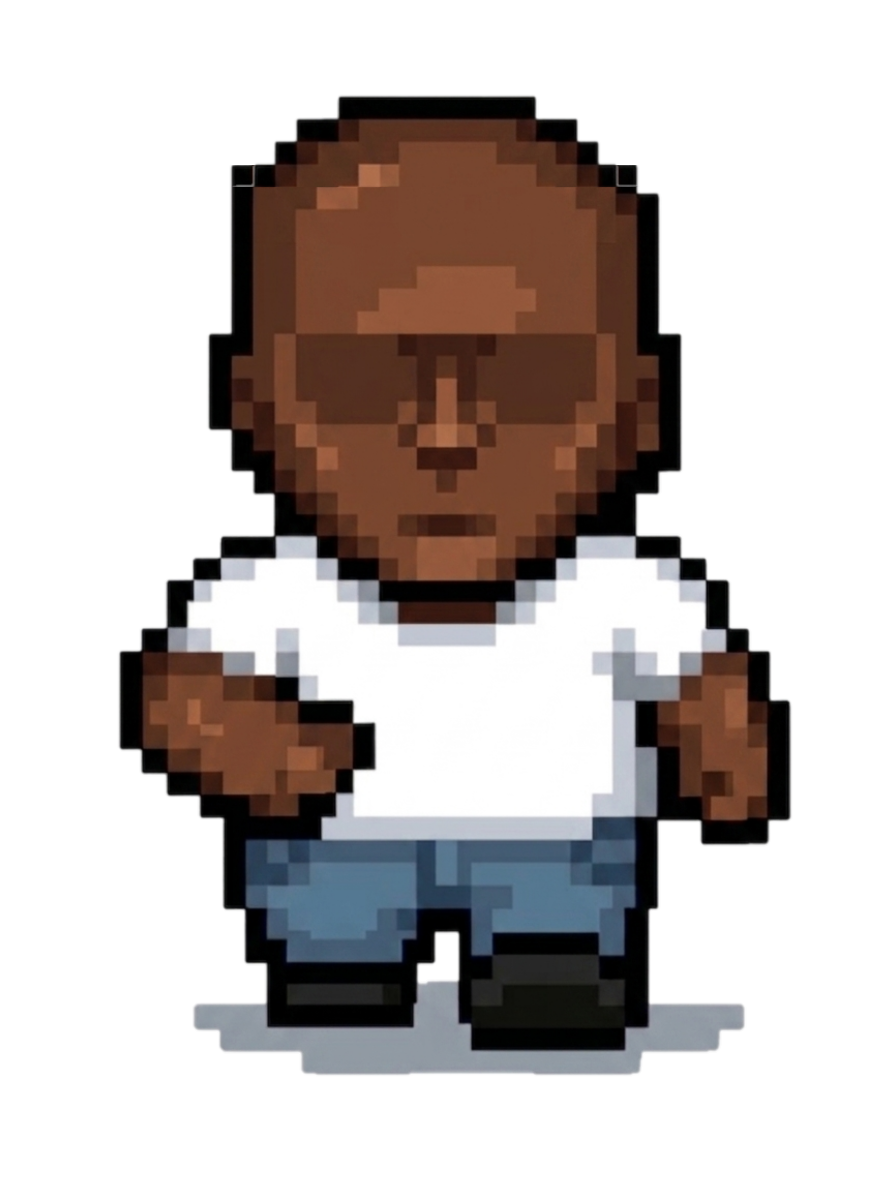
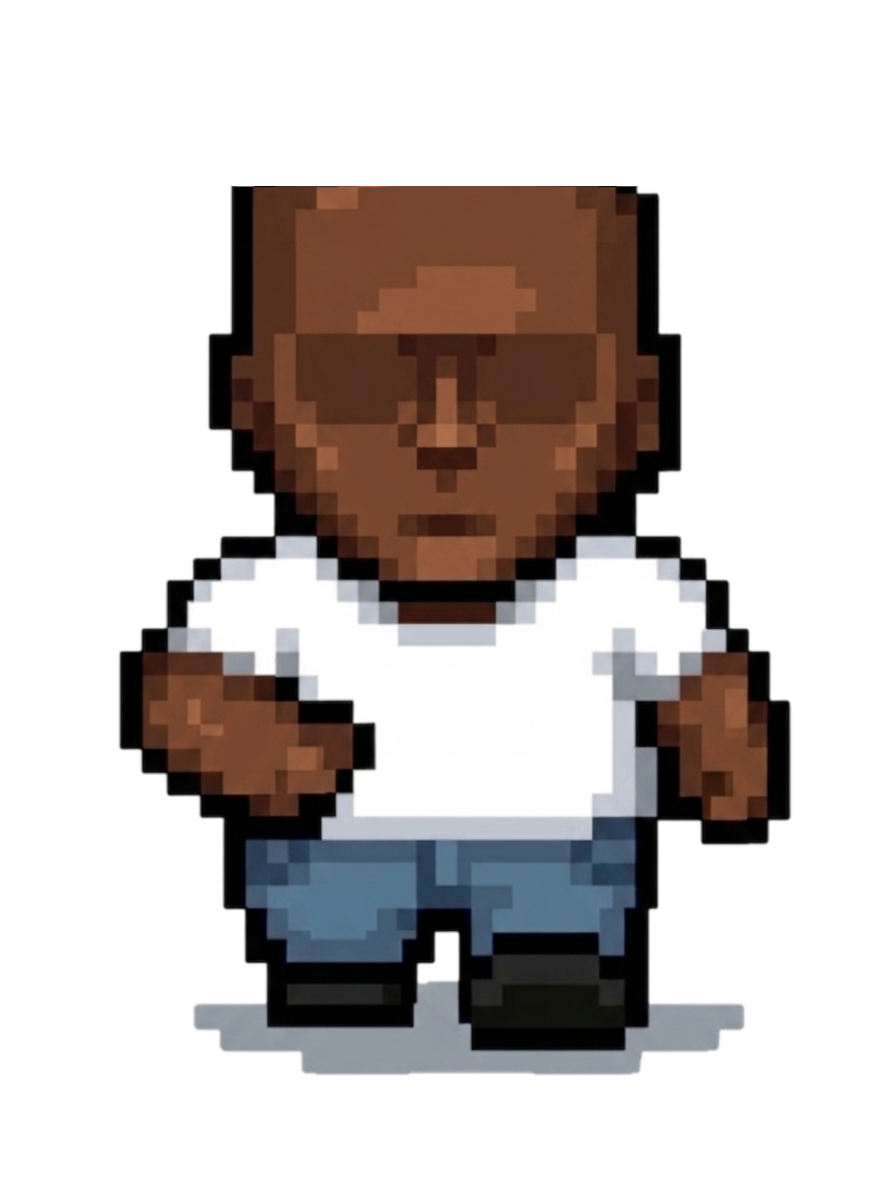
fix

Changed region(s): [[0.25, 0.0619, 0.7188, 0.1548]]

diff --git a/script.js b/script.js
@@ -161,6 +161,14 @@ function renderCharacterTimelineOptions() {
   });
 }
 
+const CHARACTER_BUILDER_TABS = [
+  { id: 'body', label: 'Peau', category: 'bodies', field: 'body' },
+  { id: 'hair', label: 'Cheveux', category: 'hair', field: 'hair' },
+  { id: 'eyes', label: 'Yeux', category: 'eyes', field: 'eyes' },
+  { id: 'beard', label: 'Barbe', category: 'beards', field: 'beard' }
+];
+let activeCharacterBuilderTab = 'body';
+
 function makeCharacterOptionButton(item, field) {
   const appearance = getPendingCharacterAppearance();
   const button = document.createElement('button');
@@ -168,13 +176,22 @@ function makeCharacterOptionButton(item, field) {
   button.className = 'character-choice-btn' + (appearance[field] === item.id ? ' active' : '');
   button.title = item.label || item.id;
   if (item.src) {
+    const preview = document.createElement('span');
+    preview.className = 'character-choice-preview';
     const img = document.createElement('img');
     img.src = item.src;
     img.alt = '';
     img.onerror = function () { this.style.display = 'none'; };
-    button.appendChild(img);
+    preview.appendChild(img);
+    button.appendChild(preview);
+  } else {
+    const empty = document.createElement('span');
+    empty.className = 'character-choice-preview character-choice-none';
+    empty.textContent = '-';
+    button.appendChild(empty);
   }
   const label = document.createElement('span');
+  label.className = 'character-choice-label';
   label.textContent = item.label || item.id;
   button.appendChild(label);
   button.addEventListener('click', () => {
@@ -184,34 +201,60 @@ function makeCharacterOptionButton(item, field) {
   return button;
 }
 
-function renderCharacterOptionGroup(parent, title, category, field) {
+function getAvailableCharacterTabs() {
   const config = getCharacterBuilderConfig(pendingCharacterTimelineId);
-  const options = (config && config[category]) || [];
-  if (!options.length) return;
+  return CHARACTER_BUILDER_TABS.filter(tab => ((config && config[tab.category]) || []).length);
+}
+
+function renderCharacterBuilderSubtabs() {
+  const wrap = document.getElementById('character-builder-subtabs');
+  if (!wrap) return;
+  const tabs = getAvailableCharacterTabs();
+  if (!tabs.some(tab => tab.id === activeCharacterBuilderTab)) {
+    activeCharacterBuilderTab = tabs[0]?.id || 'body';
+  }
+  wrap.innerHTML = '';
+  tabs.forEach((tab) => {
+    const button = document.createElement('button');
+    button.type = 'button';
+    button.className = 'character-builder-subtab' + (activeCharacterBuilderTab === tab.id ? ' active' : '');
+    button.textContent = tab.label;
+    button.addEventListener('click', () => {
+      activeCharacterBuilderTab = tab.id;
+      renderCharacterBuilderModal();
+    });
+    wrap.appendChild(button);
+  });
+}
+
+function renderCharacterOptionPanel() {
+  const options = document.getElementById('character-builder-options');
+  if (!options) return;
+  const config = getCharacterBuilderConfig(pendingCharacterTimelineId);
+  const tab = getAvailableCharacterTabs().find(item => item.id === activeCharacterBuilderTab);
+  options.innerHTML = '';
+  if (!config || !tab) return;
+
   const section = document.createElement('div');
-  section.className = 'character-builder-section';
-  const label = document.createElement('div');
-  label.className = 'character-builder-label';
-  label.textContent = title;
+  section.className = 'character-builder-section active';
+  const header = document.createElement('div');
+  header.className = 'character-builder-panel-title';
+  header.textContent = tab.label;
   const row = document.createElement('div');
   row.className = 'character-choice-row';
-  options.forEach(item => row.appendChild(makeCharacterOptionButton(item, field)));
-  section.appendChild(label);
+  (config[tab.category] || []).forEach(item => row.appendChild(makeCharacterOptionButton(item, tab.field)));
+  section.appendChild(header);
   section.appendChild(row);
-  parent.appendChild(section);
+  options.appendChild(section);
 }
 
 function renderCharacterBuilderModal() {
   const preview = document.getElementById('character-builder-modal-preview');
-  const options = document.getElementById('character-builder-options');
-  if (!preview || !options) return;
+  if (!preview) return;
   renderCharacterTimelineOptions();
   renderCharacterLayers(preview, getPendingCharacterAppearance(), pendingCharacterTimelineId);
-  options.innerHTML = '';
-  renderCharacterOptionGroup(options, 'Peau', 'bodies', 'body');
-  renderCharacterOptionGroup(options, 'Cheveux', 'hair', 'hair');
-  renderCharacterOptionGroup(options, 'Yeux', 'eyes', 'eyes');
-  renderCharacterOptionGroup(options, 'Barbe', 'beards', 'beard');
+  renderCharacterBuilderSubtabs();
+  renderCharacterOptionPanel();
 }
 
 function openCharacterBuilder() {

diff --git a/style.css b/style.css
@@ -1816,3 +1816,158 @@ color: #fff;
     height: 220px;
   }
 }
+
+
+/* Character builder wider tabs */
+.character-builder-box {
+  width: min(980px, calc(100vw - 32px));
+  padding: 22px;
+}
+
+.character-builder-layout {
+  grid-template-columns: 280px minmax(0, 1fr);
+  gap: 22px;
+}
+
+.character-builder-preview-panel {
+  min-height: 430px;
+}
+
+.character-builder-stage-modal {
+  width: 240px;
+  height: 330px;
+}
+
+.character-builder-controls {
+  min-height: 430px;
+  max-height: 64vh;
+  overflow: hidden;
+  display: flex;
+  flex-direction: column;
+}
+
+.character-builder-controls > .character-builder-section {
+  flex: 0 0 auto;
+  padding-bottom: 12px;
+  margin-bottom: 12px;
+}
+
+.character-builder-subtabs {
+  display: grid;
+  grid-template-columns: repeat(4, minmax(0, 1fr));
+  gap: 8px;
+  margin-bottom: 12px;
+  flex: 0 0 auto;
+}
+
+.character-builder-subtab {
+  min-height: 42px;
+  border: 2px solid var(--gold-dark);
+  background: #0d0b07;
+  color: var(--gold-light);
+  font-family: 'Press Start 2P', monospace;
+  font-size: 8px;
+  cursor: pointer;
+  box-shadow: 2px 2px 0 #000, inset 0 0 10px rgba(0,0,0,0.72);
+}
+
+.character-builder-subtab:hover,
+.character-builder-subtab.active {
+  border-color: var(--gold-light);
+  background: #2a1e08;
+  box-shadow: 0 0 12px rgba(240,200,68,0.42), 2px 2px 0 #000;
+}
+
+.character-builder-options-panel {
+  flex: 1 1 auto;
+  min-height: 0;
+  overflow-y: auto;
+  border: 2px solid rgba(200, 163, 44, 0.55);
+  background: rgba(5, 5, 4, 0.38);
+  padding: 14px;
+  box-shadow: inset 0 0 18px rgba(0,0,0,0.72);
+}
+
+.character-builder-panel-title {
+  color: var(--gold-light);
+  font-size: 11px;
+  margin-bottom: 14px;
+  text-shadow: 0 0 8px rgba(255, 214, 74, 0.55);
+}
+
+.character-builder-options-panel .character-builder-section {
+  border: 0;
+  padding: 0;
+  margin: 0;
+}
+
+.character-choice-row {
+  grid-template-columns: repeat(auto-fill, minmax(132px, 1fr));
+  gap: 12px;
+}
+
+.character-choice-btn {
+  min-height: 112px;
+  padding: 10px;
+  gap: 8px;
+  font-size: 8px;
+}
+
+.character-choice-preview {
+  width: 72px;
+  height: 72px;
+  display: grid;
+  place-items: center;
+  border: 1px solid rgba(200, 163, 44, 0.55);
+  background: #080704;
+  box-shadow: inset 0 0 10px rgba(0,0,0,0.85);
+}
+
+.character-choice-btn img {
+  width: 66px;
+  height: 66px;
+}
+
+.character-choice-none {
+  color: var(--gold-light);
+  font-size: 18px;
+}
+
+.character-choice-label {
+  min-height: 20px;
+  display: flex;
+  align-items: center;
+  justify-content: center;
+}
+
+.character-gender-btn {
+  min-height: 54px;
+  flex-direction: row;
+}
+
+.character-gender-symbol {
+  font-size: 24px;
+}
+
+@media (max-width: 780px) {
+  .character-builder-layout {
+    grid-template-columns: 1fr;
+  }
+
+  .character-builder-preview-panel {
+    min-height: 250px;
+  }
+
+  .character-builder-stage-modal {
+    width: 170px;
+    height: 235px;
+  }
+
+  .character-builder-controls {
+    min-height: 360px;
+  }
+
+  .character-builder-subtabs {
+    grid-template-columns: repeat(2, minmax(0, 1fr));
+  }
+}

diff --git a/index.html b/index.html
@@ -80,7 +80,8 @@
             <div class="character-builder-label">Timeline</div>
             <div class="character-choice-row" id="character-timeline-options"></div>
           </div>
-          <div id="character-builder-options"></div>
+          <div class="character-builder-subtabs" id="character-builder-subtabs"></div>
+          <div class="character-builder-options-panel" id="character-builder-options"></div>
         </div>
       </div>
       <div class="character-builder-actions">
